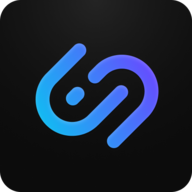
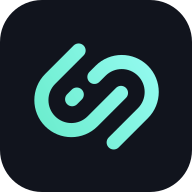
feat: refresh Basis Theory branding (#77)

diff --git a/components/shared/BasisTheoryLogo.tsx b/components/shared/BasisTheoryLogo.tsx
@@ -1,66 +1,15 @@
 import React from 'react';
+import Box from '@mui/material/Box';
 
 export const BasisTheoryLogo = () => (
-  <svg
-    fill="none"
-    height="22"
-    viewBox="0 0 114 40"
-    width="70"
-    xmlns="https://www.w3.org/2000/svg"
-  >
-    <path
-      d="M88.0018 5.93837C88.4252 5.81788 88.9169 5.88843 89.2556 6.18153C89.8168 6.65264 89.8006 7.64916 89.2046 8.08554C88.5989 8.54797 87.5579 8.37212 87.2517 7.63722C86.9445 6.99241 87.293 6.12074 88.0018 5.93837Z"
-      fill="#FFFFFF"
-    />
-    <path
-      d="M51.7651 6.91011C52.8995 6.91336 54.0339 6.90251 55.1693 6.91554C56.1474 6.95136 57.2199 7.13915 57.9309 7.87188C58.9947 8.98889 58.7038 11.0872 57.297 11.7906C58.0406 12.024 58.7277 12.5516 58.9795 13.3115C59.3378 14.4002 59.0957 15.7289 58.2186 16.5072C57.4229 17.2194 56.3178 17.4451 55.2801 17.4712C54.1088 17.4766 52.9364 17.4723 51.7651 17.4734C51.7651 13.9519 51.764 10.4316 51.7651 6.91011ZM53.528 8.47761C53.5291 9.36882 53.5269 10.259 53.5291 11.1502C54.416 11.1219 55.3582 11.2609 56.1908 10.8799C56.7922 10.6074 56.9311 9.82692 56.7434 9.25159C56.6098 8.85537 56.1952 8.65998 55.8141 8.57856C55.063 8.4179 54.2901 8.49606 53.528 8.47761ZM53.5291 12.7177C53.528 13.7804 53.5302 14.8431 53.528 15.9059C54.5669 15.8657 55.6806 16.0611 56.6467 15.5759C57.3545 15.2318 57.5434 14.2939 57.2731 13.6089C57.0907 13.1758 56.6359 12.9478 56.2017 12.8447C55.3257 12.6395 54.4192 12.7426 53.5291 12.7177Z"
-      fill="#FFFFFF"
-    />
-    <path
-      d="M95.8573 9.49789C97.5572 8.91062 99.5003 9.3177 100.934 10.3674C100.634 10.7712 100.331 11.1718 100.026 11.5723C99.1529 10.9275 98.0413 10.5845 96.958 10.7386C96.6627 10.7864 96.3457 10.8733 96.1417 11.1077C95.9376 11.3368 95.9278 11.7504 96.1927 11.9392C96.5433 12.1911 96.9743 12.292 97.3857 12.4006C98.2823 12.6112 99.2061 12.774 100.039 13.1887C100.479 13.4058 100.895 13.7358 101.087 14.2015C101.376 14.9147 101.277 15.7907 100.776 16.3856C100.269 17.0119 99.4829 17.3354 98.7068 17.4678C96.946 17.7653 95.0985 17.2551 93.6699 16.201C93.9598 15.7853 94.2463 15.3684 94.534 14.9505C95.6564 15.8254 97.1436 16.2423 98.5526 15.9904C98.9868 15.9036 99.5111 15.604 99.4612 15.0905C99.4558 14.6954 99.0422 14.5141 98.7306 14.3904C97.5268 13.9442 96.1536 13.9355 95.0768 13.1702C94.4591 12.7675 94.115 11.9989 94.2507 11.2695C94.3614 10.4152 95.0692 9.76276 95.8573 9.49789Z"
-      fill="#FFFFFF"
-    />
-    <path
-      d="M64.2082 10.2144C65.1537 9.35362 66.6126 9.07247 67.7871 9.60655C68.0987 9.74116 68.3755 9.93872 68.6458 10.1395C68.6751 9.9333 68.7055 9.72813 68.7359 9.52297C69.2255 9.52188 69.715 9.52188 70.2057 9.52188C70.2068 12.1727 70.2057 14.8225 70.2057 17.4734C69.702 17.4744 69.1994 17.4734 68.6957 17.4734C68.6686 17.2237 68.6414 16.9729 68.6165 16.7233C68.0802 17.1596 67.455 17.5103 66.7657 17.6232C65.6834 17.7817 64.5013 17.4028 63.7957 16.5452C63.0781 15.6909 62.8426 14.5381 62.8523 13.4482C62.8589 12.252 63.2952 11.0188 64.2082 10.2144ZM64.688 12.9565C64.5903 13.788 64.6663 14.702 65.1613 15.4054C65.564 15.9786 66.3325 16.1979 66.999 16.0492C67.5733 15.933 68.0455 15.552 68.4417 15.1395C68.4406 13.9649 68.4428 12.7893 68.4406 11.6148C67.8544 11.0894 67.0349 10.742 66.2468 10.9678C65.3599 11.2012 64.7987 12.0848 64.688 12.9565Z"
-      fill="#FFFFFF"
-    />
-    <path
-      d="M76.1859 9.62941C77.8978 9.00632 79.8745 9.41231 81.3248 10.4761C81.0241 10.8789 80.7191 11.2794 80.4184 11.6821C79.4902 10.9863 78.269 10.6411 77.1227 10.8908C76.7363 10.9635 76.327 11.2718 76.3878 11.7093C76.4443 12.0784 76.8502 12.214 77.1542 12.3269C78.3971 12.7362 79.7888 12.797 80.8862 13.5742C81.5886 14.0594 81.785 15.0288 81.5397 15.8115C81.3454 16.4237 80.8558 16.9035 80.2914 17.189C79.5087 17.5852 78.6099 17.6905 77.7425 17.6493C76.4171 17.5841 75.134 17.0848 74.0615 16.3119C74.3481 15.8918 74.6412 15.4761 74.9267 15.056C76.0415 15.9309 77.52 16.3423 78.9225 16.1013C79.373 16.0199 79.9147 15.7105 79.8528 15.1786C79.8344 14.7824 79.4143 14.6163 79.1016 14.4882C77.8967 14.0518 76.5235 14.0366 75.4521 13.2648C74.8778 12.8751 74.5337 12.1761 74.6303 11.4824C74.6955 10.6086 75.3902 9.91273 76.1859 9.62941Z"
-      fill="#FFFFFF"
-    />
-    <path
-      d="M84.1956 10.9327C84.1946 10.4258 84.1946 9.9199 84.1956 9.41296C85.9368 9.41405 87.678 9.41296 89.4192 9.41405C89.4192 12.0638 89.4192 14.7147 89.4192 17.3644C88.8308 17.3644 88.2436 17.3644 87.6552 17.3644C87.6541 15.2205 87.6552 13.0766 87.6552 10.9338C86.5013 10.9327 85.3485 10.9338 84.1956 10.9327Z"
-      fill="#FFFFFF"
-    />
-    <path
-      d="M51.7646 21.8513C54.0128 21.8469 56.2609 21.8502 58.509 21.8502C58.509 25.6419 58.509 29.4347 58.509 33.2276C57.9207 33.2276 57.3334 33.2276 56.745 33.2265C56.744 29.9612 56.745 26.696 56.745 23.4307C55.0853 23.4296 53.4255 23.4318 51.7657 23.4307C51.7646 22.9042 51.7657 22.3777 51.7646 21.8513Z"
-      fill="#FFFFFF"
-    />
-    <path
-      d="M63.3609 21.8501C63.9493 21.849 64.5366 21.8501 65.1249 21.849C65.1108 23.3177 65.1618 24.7875 65.075 26.2541C65.6948 25.6777 66.4677 25.2163 67.3275 25.149C68.1546 25.0795 69.0741 25.2521 69.6657 25.8785C70.2877 26.5222 70.444 27.4612 70.4549 28.3242C70.4603 29.9742 70.456 31.6242 70.457 33.2742C69.8665 33.2753 69.276 33.2742 68.6865 33.2742C68.6855 31.6611 68.6876 30.048 68.6855 28.4349C68.6735 27.9779 68.6225 27.4785 68.3185 27.1138C67.9972 26.7447 67.4599 26.7067 67.0051 26.7426C66.2278 26.8175 65.6449 27.3982 65.1238 27.9236C65.126 29.7071 65.1249 31.4906 65.1238 33.2742C64.5355 33.2753 63.9482 33.2742 63.3599 33.2753C63.3609 29.4661 63.3599 25.6581 63.3609 21.8501Z"
-      fill="#FFFFFF"
-    />
-    <path
-      d="M75.1401 26.47C76.2973 25.1554 78.3435 24.7679 79.9186 25.5126C80.7088 25.8697 81.3157 26.5785 81.5946 27.3949C81.8704 28.1971 81.8964 29.0742 81.7303 29.9035C79.7905 29.9024 77.8517 29.9013 75.913 29.9035C76.0281 30.633 76.4492 31.3375 77.1396 31.649C78.3619 32.2548 79.8404 31.9302 80.9086 31.1529C81.1387 31.572 81.3721 31.9888 81.6044 32.4067C80.7544 32.9929 79.7612 33.413 78.7191 33.4554C77.538 33.5303 76.2962 33.2122 75.406 32.4056C73.7669 30.925 73.6833 28.1037 75.1401 26.47ZM76.9616 26.9889C76.4449 27.3037 76.1236 27.8486 75.9683 28.4218C77.3687 28.4261 78.769 28.4239 80.1704 28.4228C80.0857 27.854 79.8589 27.2559 79.3508 26.9379C78.6377 26.4917 77.6618 26.5373 76.9616 26.9889Z"
-      fill="#FFFFFF"
-    />
-    <path
-      d="M88.1068 25.2434C89.3204 24.9568 90.6806 25.2347 91.6283 26.063C93.4552 27.6728 93.4639 30.9305 91.625 32.5349C90.1661 33.806 87.754 33.7593 86.3569 32.4133C84.9924 31.1117 84.796 28.8994 85.5819 27.2418C86.0649 26.2388 87.0202 25.4865 88.1068 25.2434ZM88.4336 26.774C87.9841 26.9097 87.5966 27.2201 87.3545 27.6207C86.9486 28.2796 86.865 29.0905 86.9594 29.846C87.0484 30.5212 87.3567 31.2149 87.9472 31.5937C88.7266 32.0952 89.8675 31.9975 90.508 31.3104C91.0128 30.7785 91.1962 30.0164 91.1919 29.3C91.1908 28.5575 90.9965 27.7629 90.4483 27.231C89.9316 26.7121 89.1218 26.5688 88.4336 26.774Z"
-      fill="#FFFFFF"
-    />
-    <path
-      d="M96.2905 25.327C98.3899 25.3172 100.489 25.3259 102.588 25.3226C102.588 25.8274 102.588 26.3311 102.588 26.8358C101.077 26.8369 99.5667 26.8358 98.0567 26.8369C98.0545 28.9819 98.0578 31.128 98.0545 33.2741C97.4672 33.2752 96.8789 33.2752 96.2916 33.2741C96.2916 30.6254 96.2927 27.9767 96.2905 25.327Z"
-      fill="#FFFFFF"
-    />
-    <path
-      d="M104.936 25.3247C105.547 25.3214 106.158 25.3225 106.769 25.3236C107.632 27.3003 108.523 29.2641 109.359 31.2527C110.076 29.2597 110.876 27.2982 111.643 25.3236C112.229 25.3214 112.816 25.3236 113.404 25.3225C112.418 27.7367 111.431 30.1509 110.446 32.5651C109.978 33.6431 109.661 34.8567 108.758 35.673C107.847 36.5306 106.44 36.6825 105.297 36.2472C105.423 35.7512 105.552 35.2572 105.681 34.7633C106.248 34.9663 106.916 35.0228 107.445 34.6895C108.029 34.3302 108.296 33.6626 108.52 33.046C107.322 30.4744 106.129 27.8985 104.936 25.3247Z"
-      fill="#FFFFFF"
-    />
-    <path
-      clipRule="evenodd"
-      d="M40 0H0V40H40V0ZM22.0539 11.4715C19.7026 11.4704 17.3513 11.4694 15 11.474C15.0008 11.8673 15.0008 12.2605 15.0008 12.6538C15.0008 13.0471 15.0008 13.4404 15.0016 13.8337C16.2414 13.8345 17.4811 13.8341 18.7208 13.8337C19.9609 13.8333 21.2009 13.8329 22.4409 13.8337C22.4409 15.4598 22.4407 17.086 22.4405 18.7121C22.4402 21.9644 22.4398 25.2167 22.4409 28.469C23.3199 28.4706 24.1973 28.4706 25.0763 28.4706V11.4723C24.0688 11.4723 23.0614 11.4719 22.0539 11.4715Z"
-      fill="#FFFFFF"
-      fillRule="evenodd"
-    />
-  </svg>
+  <Box
+    alt="Basis Theory"
+    component="img"
+    src="/basis-theory-logo-white.svg"
+    sx={{
+      display: 'block',
+      height: '18px',
+      width: '85px',
+    }}
+  />
 );

diff --git a/theme/bliss/dark.ts b/theme/bliss/dark.ts
@@ -4,7 +4,7 @@ import cloneDeep from 'lodash/cloneDeep';
 import merge from 'lodash/merge';
 import { baseThemeOptions } from './base';
 
-const defaultContrastText = '#000000';
+const defaultContrastText = '#0B0E15';
 const grey = {
   '50': '#F2F4FF',
   '100': '#CACDDB',
@@ -20,10 +20,10 @@ const grey = {
 };
 
 const divider = alpha('#414970', 0.5);
-const successContrastText = alpha('#070A1B', 0.9);
+const successContrastText = alpha(defaultContrastText, 0.9);
 
-const textPrimary = '#E5E6EC';
-const textSecondary = '#A1A1A1';
+const textPrimary = '#E6E8EE';
+const textSecondary = '#A0A5B3';
 
 const options: ThemeOptions = {
   palette: {
@@ -34,17 +34,17 @@ const options: ThemeOptions = {
       disabled: alpha('#a3b0ec', 0.4),
     },
     action: {
-      active: '#5383FF',
-      hover: '#20243A',
+      active: '#94FAF0',
+      hover: '#181B25',
       selected: alpha('#000000', 0.08),
       selectedOpacity: 0.08, // does not produce desired effect
       disabled: '#626262',
       disabledBackground: '#363636',
     },
     primary: {
-      main: '#5383FF',
-      dark: '#3658B2',
-      light: '#5383FF',
+      main: '#94FAF0',
+      dark: '#5CE8C0',
+      light: '#B3F0E8',
       contrastText: defaultContrastText,
     },
     secondary: {
@@ -79,7 +79,7 @@ const options: ThemeOptions = {
     },
     background: {
       default: defaultContrastText,
-      paper: '#1D1D1D',
+      paper: '#11141D',
     },
     divider, // used for borders
     grey,

diff --git a/pages/_document.tsx b/pages/_document.tsx
@@ -16,7 +16,14 @@ class MyDocument extends Document {
         <Head nonce={nonce}>
           {/* PWA primary color */}
           <meta content={dark.palette.primary.main} name="theme-color" />
-          <link href="/favicon.ico" rel="icon" />
+          <link href="/favicon.svg" rel="icon" type="image/svg+xml" />
+          <link
+            href="/favicon-32x32.png"
+            rel="icon"
+            sizes="32x32"
+            type="image/png"
+          />
+          <link href="/apple-touch-icon.png" rel="apple-touch-icon" />
           {/* Theme fonts */}
           <link href="https://fonts.gstatic.com" rel="preconnect" />
           <link href="/manifest.webmanifest" rel="manifest" />
@@ -45,7 +52,7 @@ class MyDocument extends Document {
         <body
           style={{
             background:
-              'radial-gradient(61.89% 61.89% at 50% 8.83%, #2C2C2C 0%, #0C0C0C 100%)',
+              'radial-gradient(80% 80% at 80% 20%, rgba(92, 232, 192, 0.1), transparent 60%), linear-gradient(180deg, #06080D 0%, #0B0E15 100%)',
             minHeight: '100vh',
           }}
         >

diff --git a/components/shared/Footer.tsx b/components/shared/Footer.tsx
@@ -1,6 +1,5 @@
 import React from 'react';
 import Box from '@mui/material/Box';
-import { ProductHuntBadge } from '@/components/shared/ProductHuntBadge';
 import { SecurityInfo } from '@/components/shared/SecurityInfo';
 import { FooterLink } from './FooterLink';
 
@@ -34,16 +33,15 @@ export const Footer = () => (
       </Box>
       <FooterLink
         i18nKey="links.termsOfService"
-        linkUrl="https://basistheory.com/terms-of-service"
+        linkUrl="https://basistheory.com/resources/terms-of-service"
       />
       <Box ml={1} mr={1}>
         {'·'}
       </Box>
       <FooterLink
         i18nKey="links.privacyPolicy"
-        linkUrl="https://basistheory.com/privacy-policy"
+        linkUrl="https://basistheory.com/resources/privacy-policy"
       />
     </Box>
-    <ProductHuntBadge />
   </Box>
 );

diff --git a/components/shared/PoweredByBasisTheory.tsx b/components/shared/PoweredByBasisTheory.tsx
@@ -13,15 +13,23 @@ export const PoweredByBasisTheory = () => {
       <Box
         alignItems="center"
         display="flex"
+        gap={1}
         justifyContent="center"
         sx={{
-          opacity: 0.4,
+          opacity: 0.72,
+          transition: 'opacity 120ms ease',
           '&:hover': {
             opacity: 1,
           },
         }}
       >
-        <Typography mr={1} sx={{ color: '#FFFFFF' }} variant="body3">
+        <Typography
+          sx={{
+            color: '#A0A5B3',
+            whiteSpace: 'nowrap',
+          }}
+          variant="body3"
+        >
           {t('poweredBy.prefix')}
         </Typography>
         <BasisTheoryLogo />

diff --git a/components/shared/SecurityInfo.tsx b/components/shared/SecurityInfo.tsx
@@ -35,11 +35,12 @@ export const SecurityInfo = () => {
             justifyContent="space-between"
           >
             <Box alignItems="center" display="flex">
-              <img
-                alt="security"
-                height="36px"
-                src="/security-icon.png"
-                width="36px"
+              <Box
+                alt=""
+                component="img"
+                height={32}
+                src="/security-icon.svg"
+                width={32}
               />
               <Box ml={2.5} sx={{ textAlign: 'left' }}>
                 <Typography

diff --git a/components/shared/SendSecurelyLogoWithName.tsx b/components/shared/SendSecurelyLogoWithName.tsx
@@ -39,8 +39,8 @@ export const SendSecurelyLogoWithName = () => (
             y1="-1.07942"
             y2="29.4308"
           >
-            <stop stopColor="#654DFF" />
-            <stop offset="1" stopColor="#00D2EF" />
+            <stop stopColor="#94FAF0" />
+            <stop offset="1" stopColor="#5CE8C0" />
           </linearGradient>
         </defs>
       </svg>

diff --git a/components/shared/SendSecurelyLogo.tsx b/components/shared/SendSecurelyLogo.tsx
@@ -24,8 +24,8 @@ export const SendSecurelyLogo = () => (
         y1="-2.07942"
         y2="28.4308"
       >
-        <stop stopColor="#654DFF" />
-        <stop offset="1" stopColor="#00D2EF" />
+        <stop stopColor="#94FAF0" />
+        <stop offset="1" stopColor="#5CE8C0" />
       </linearGradient>
     </defs>
   </svg>

diff --git a/theme/bliss/base.tsx b/theme/bliss/base.tsx
@@ -141,7 +141,7 @@ export const baseThemeOptions: ThemeOptions = {
     MuiButton: {
       styleOverrides: {
         root: {
-          borderRadius: '8px',
+          borderRadius: '16px',
         },
         outlined: {
           borderWidth: '2px !important', // only way to override for all sub styles and keep consistency

diff --git a/components/pages/CreateSecret.tsx b/components/pages/CreateSecret.tsx
@@ -30,9 +30,9 @@ export const CreateSecret = (props: Props) => {
         </Box>
         <Box
           mb={{
-            xs: 8,
+            xs: 6,
             sm: 8,
-            md: 15,
+            md: 10,
           }}
           mt={1}
         >
